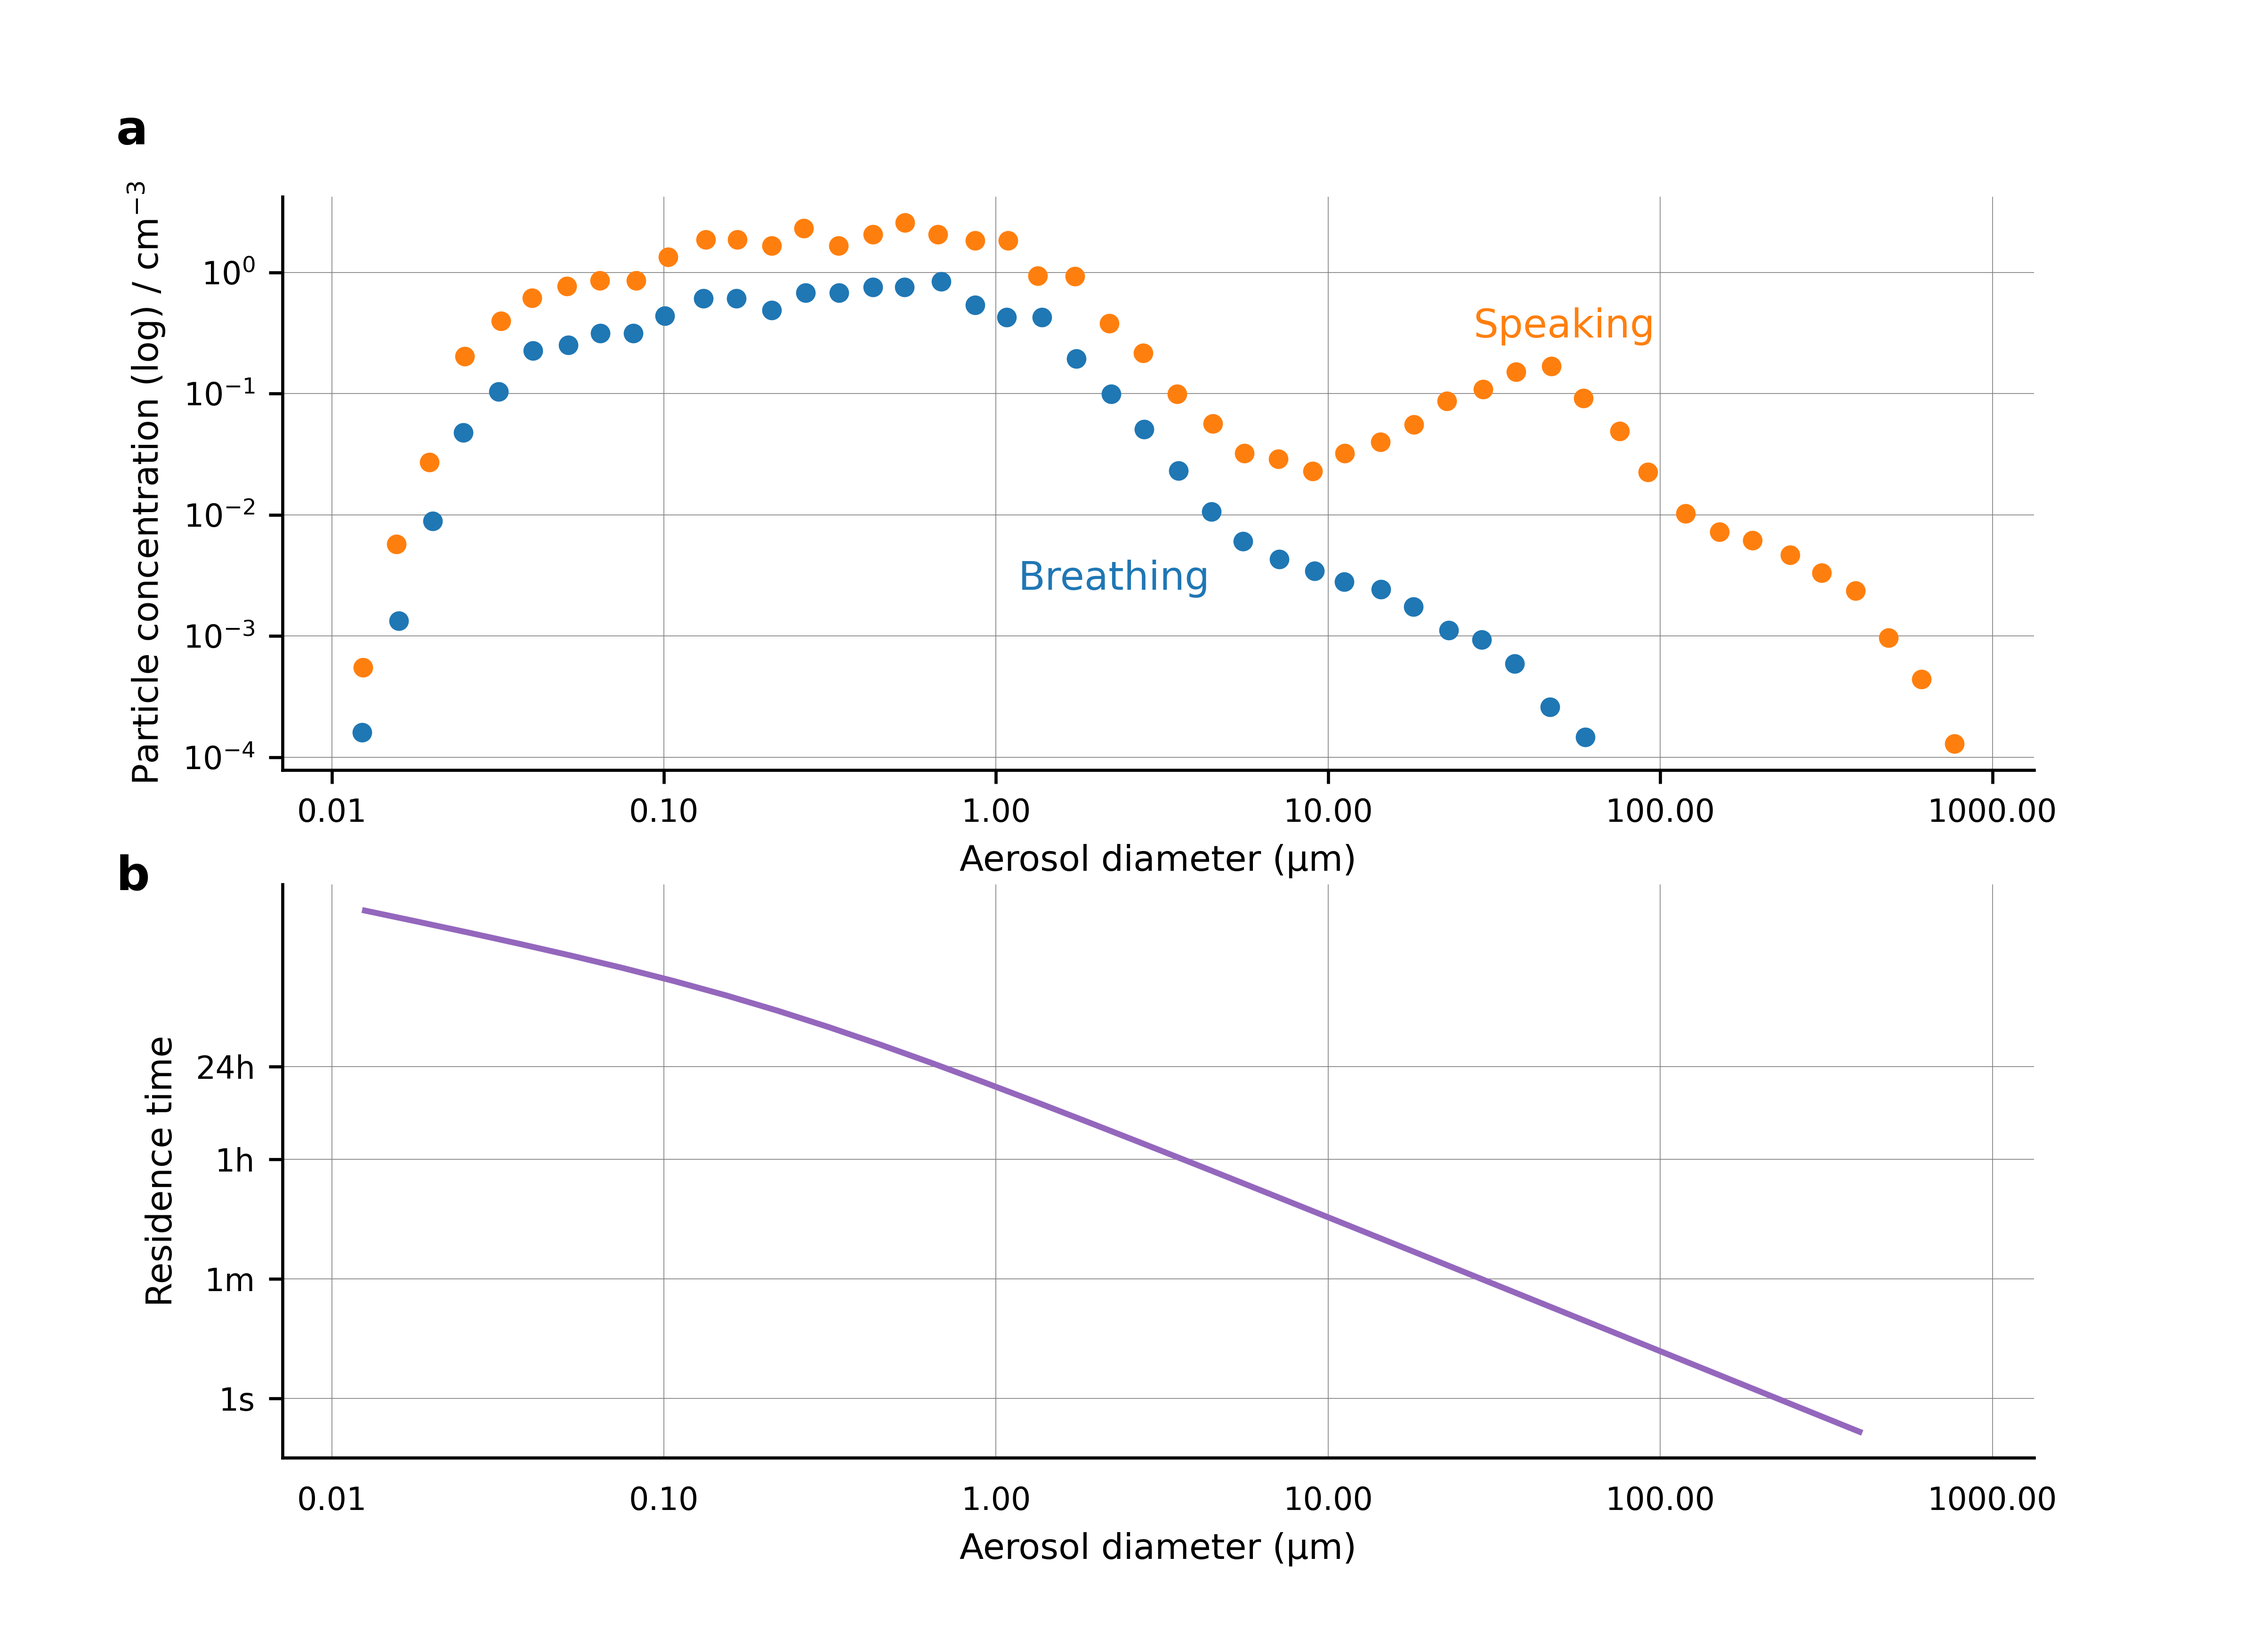
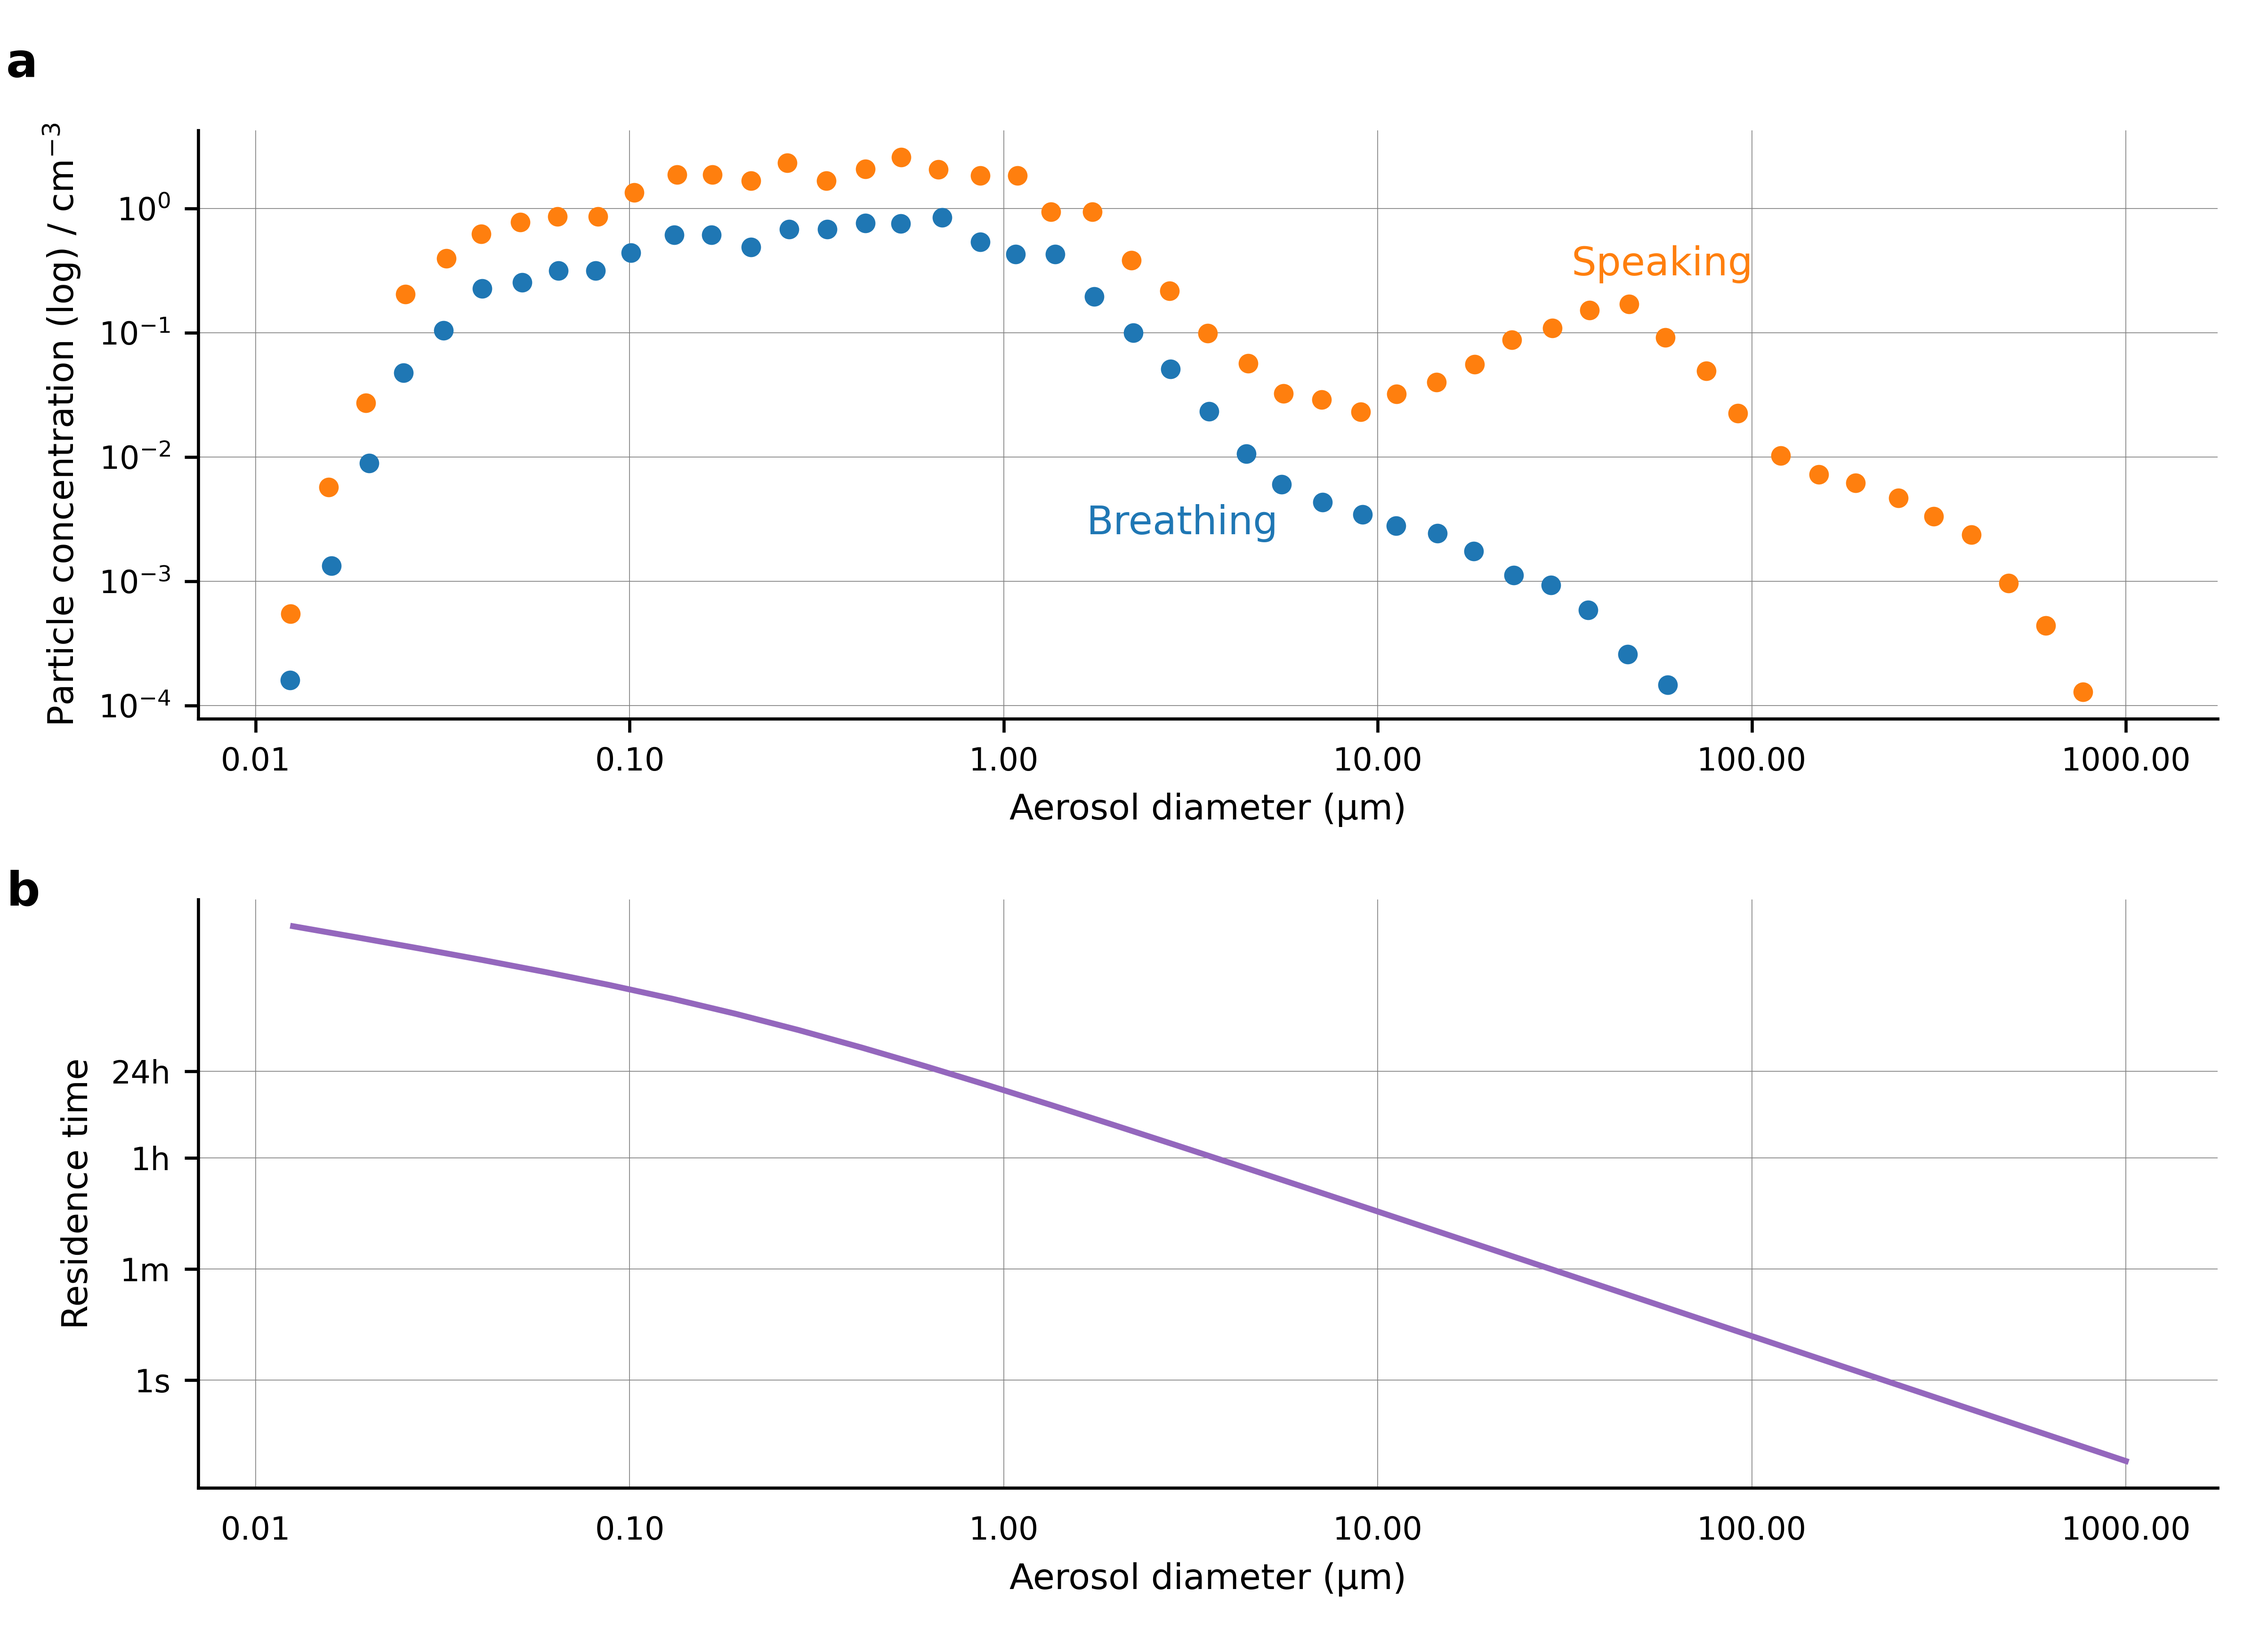
ropped white frame around figure.

diff --git a/figure_1.py b/figure_1.py
@@ -26,7 +26,7 @@ def get_terminal_velocity(diameter):
 
 
 def get_settling_time():
-    diameters = np.logspace(-7.9, -3.4, num=30)
+    diameters = np.logspace(-7.9, -3, num=30)
     residence_times = []
 
     for diameter in diameters:
@@ -81,7 +81,7 @@ def return_figure_1():
         markersize=4,
     )
     axs[0].text(
-        0.42,
+        0.44,
         0.3,
         "Breathing",
         transform=axs[0].transAxes,
@@ -114,6 +114,7 @@ def return_figure_1():
 
     axs[0].set_title("a", loc="left", fontsize=12, fontweight="bold", x=-0.095, y=1.05)
 
+
     axs[0].set_yscale("log")
     axs[0].set_xscale("log")
     axs[0].set_xlabel("Aerosol diameter (μm)", fontsize=9)
@@ -125,14 +126,14 @@ def return_figure_1():
     )
     axs[0].set_title("")
 
-    axs[0].legend(
-        loc="lower center",
-        bbox_to_anchor=(0.5, -0.4),
-        title=None,
-        ncol=2,
-        frameon=False,
-        fontsize=10,
-    )
+    #axs[0].legend(
+    #    loc="lower center",
+    #    bbox_to_anchor=(0.5, -0.4),
+    #    title=None,
+    #    ncol=2,
+    #    frameon=False,
+    #    fontsize=10,
+    #)
 
     settling_df = get_settling_time()
 
@@ -175,6 +176,8 @@ def return_figure_1():
         ax.grid(True, which="major", color="gray", linewidth=0.2)
         ax.spines["right"].set_visible(False)
         ax.spines["top"].set_visible(False)
+
+    plt.tight_layout()
 
     plt.savefig("fig/aerosol_size_distribution.png", dpi=600)
     plt.savefig("fig/aerosol_size_distribution.pdf")
